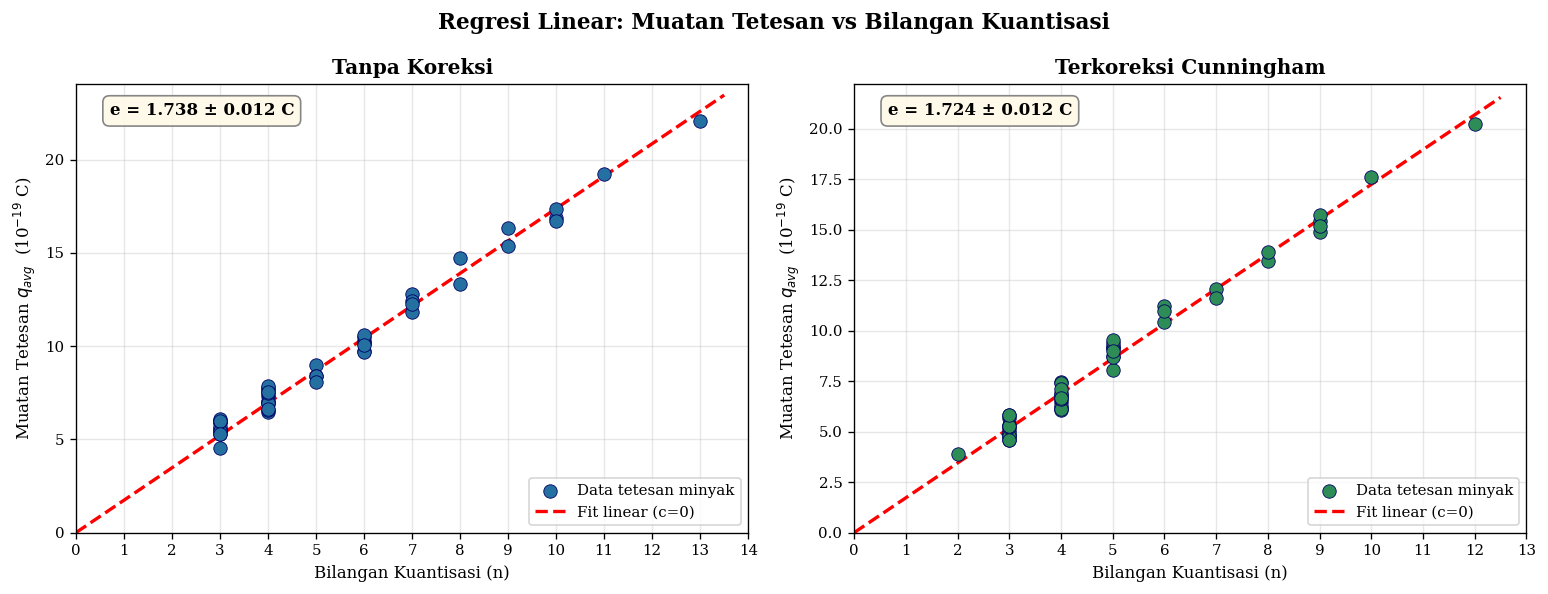
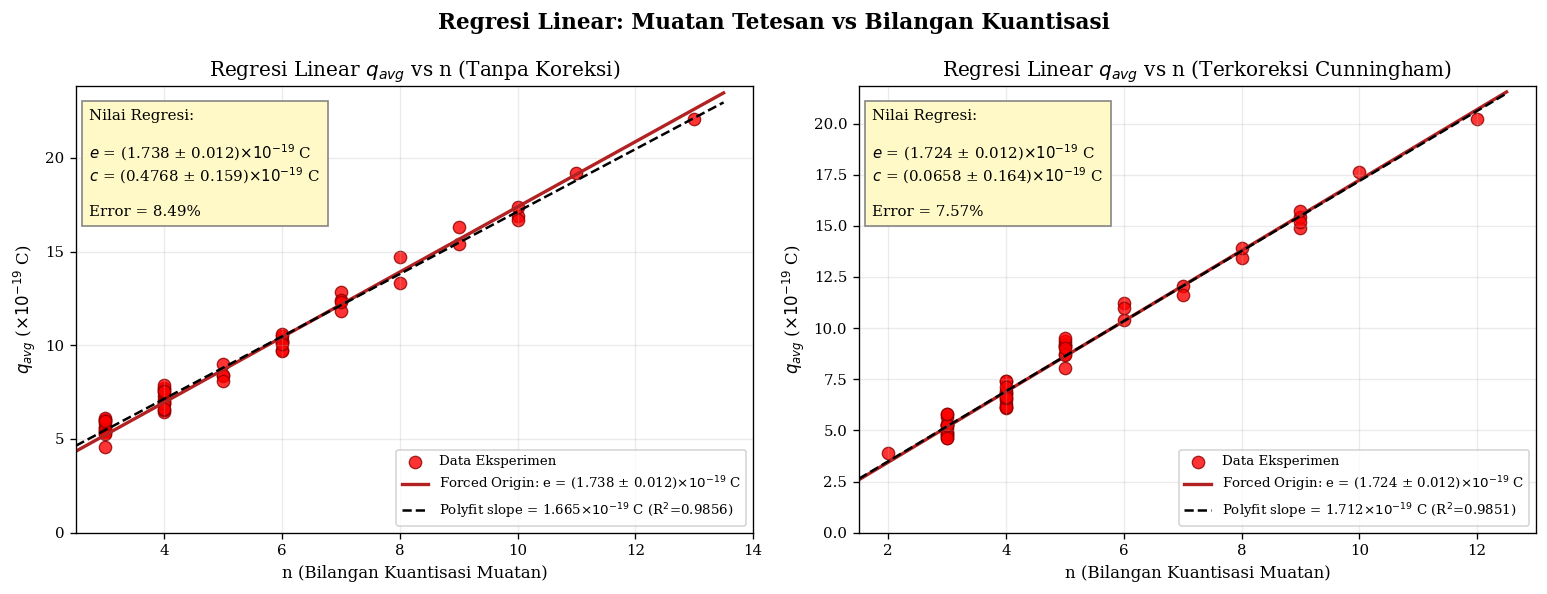
up

diff --git a/index.html b/index.html
@@ -60,7 +60,7 @@
                     
                     <div class="bab-box">
                         <h3>BAB III METODOLOGI</h3>
-                        <p>Alat dan Bahan, Skema Alat, serta Diagram Alir</p>
+                        <p>Skema Alat dan Diagram Alir</p>
                     </div>
                     
                     <div class="bab-box">
@@ -117,33 +117,16 @@
             </div>
         </div>
 
-        <div class="slide animate-slide" id="slide3b" style="--graha-opacity: 0.16">
-            <div class="header">
-                <img src="Logo Header.png" alt="Logo ITS" class="logo-header">
-            </div>
-            <div class="content">
-                <h2>Rumusan Masalah</h2>
-                <ol>
-                    <li>Bagaimana konsep kuantisasi muatan elektron pada tetesan minyak Milikan?</li>
-                    <li>Bagaimana rekonstruksi eksperimen tetesan minyak Milikan dilakukan?</li>
-                    <li>Bagaimana cara menghitung muatan elementer pada tetesan minyak Milikan melalui koreksi Cunningham?</li>
-                </ol>
-            </div>
-            <div class="footer">
-                <img src="Footer.png" alt="Footer Media Sosial">
-            </div>
-        </div>
-
         <div class="slide animate-zoom" id="slide3c" style="--graha-opacity: 0.12">
             <div class="header">
                 <img src="Logo Header.png" alt="Logo ITS" class="logo-header">
             </div>
             <div class="content">
                 <h2>Tujuan Percobaan</h2>
-                <ol>
+                <ol style="font-size: 1.9em;text-align: justify;">
                     <li>Memahami kuantisasi muatan elektron pada tetes minyak milikan</li>
                     <li>Merekonstruksi ulang Eksperimen Tetesan Minyak Milikan</li>
-                    <li>Mencari muatan elementer pada tetes minyak Milikan melalui koreksi Cunningham</li>
+                    <li>Mencari muatan elementer pada tetes minyak Milikan melalui koreksi Cunningham.</li>
                 </ol>
             </div>
             <div class="footer">
@@ -157,12 +140,15 @@
             </div>
             <div class="content">
                 <h2>Batasan Masalah</h2>
-                <ul>
-                    <li>Kondisi suhu laboratorium dianggap berada pada suhu konstan 25°C.</li>
+                <ul style="font-size: 1.6em;text-align: justify;">
                     <li>Pengambilan data dilakukan pada 50 tetesan minyak</li>
                     <li>Bentuk tetesan minyak dianggap mendekati bentuk bola sempurna</li>
                     <li>Muatan listrik pada tetesan minyak dianggap konstan selama percobaan</li>
-                    <li>Dalam percobaan, hanya menggunakan tiga metode yaitu <i>falling</i>, <i>raising</i>, dan <i>floating</i></li>
+                    <li>Percobaan dibatasi pada penentuan nilai muatan elementer elektron \((e)\)</li>
+                    <li>Percobaan hanya digunakan untuk membuktikan bahwa muatan listrik bersifat 
+                        terkuantisasi dalam kelipatan bilangan bulat dari muatan elementer elektron</li>
+                    <li>Nilai muatan elementer hasil percobaan dievaluasi berdasarkan perbandingan 
+                        dengan nilai literatur sebesar 1,602 × 10<sup>-19</sup> C.</li>
                 </ul>
             </div>
             <div class="footer">
@@ -189,19 +175,21 @@
             </div>
             <div class="content">
                 <h2>Dasar Teori</h2>
-                <div class="grid-daftar-pustaka" style="grid-template-rows: auto !important; align-items: start !important;">
-                    <div class="bab-box">
+                <div class="grid-daftar-pustaka" style="grid-template-rows: auto !important; align-items: flex-start !important;display: flex;">
+                    <div class="bab-box" style="flex-shrink:1;">
                         <h3>Hukum I Newton & Kecepatan Terminal</h3>
                         <div style="text-align: center;">
-                        <p style="text-align: center;">
-                            \( \sum \vec{F} = 0\)
-⃗                        </p>
+                            <img src="image/dasar teori/hukum1.png" alt="Hukum 1 Newton" style="text-align: center ;max-width: 100%; height: auto; border: 2px solid rgba(0,0,0,0.06);">
+                            <p><a href="https://www.knowledgeglow.com/wp-content/uploads/2023/11/Newtons-Laws-of-Motion.png" target="_blank" style="font-size: 12px;">Sumber: www.knowledgeglow.com</a></p>
+                            <p style="text-align: center;">
+                                \( \sum \vec{F} = 0 \)
+                            </p>
                         </div>
                     </div>
-                    <div class="bab-box">
+                    <div class="bab-box" style="flex-grow:1;">
                         <h3>Gaya Apung Archimedes</h3>
                         <div style="text-align: center;">
-                        <img src="image/dasar teori/archimedes.png" alt="Gaya Apung Archimedes" style="max-width: 100%; height: auto; border: 2px solid rgba(0,0,0,0.06);">
+                        <img src="image/dasar teori/archimedes.png" alt="Gaya Apung Archimedes" style="width: 100%; height: auto; border: 2px solid rgba(0,0,0,0.06);">
                         <a href="https://share.google/i2HzBJra6W1WbsAIS" target="_blank" style="font-size: 12px;">Sumber: share.google.com</a>
                         </div>
                     </div>
@@ -234,21 +222,21 @@
             </div>
             <div class="content">
                 
-                <div class="grid-daftar-pustaka" style="grid-template-rows: auto !important; align-items: start !important;">
-                    <div class="bab-box" >
+                <div class="grid-daftar-pustaka" style="grid-template-rows: auto !important; align-items: flex-start !important;">
+                    <div class="bab-box" style="flex-grow:1;">
                         <h3>Gaya Gravitasi</h3>
                         <div style="text-align: center;">
                         <p style="text-align: center;">
-                            <img src="image/dasar teori/gravitasi.jpeg" alt="Gaya Gravitasi" style="max-width: 60%;height: auto; border: 2px solid rgba(0,0,0,0.06);">
+                            <img src="image/dasar teori/gravitasi.jpeg" alt="Gaya Gravitasi" style="max-width: 100%;height: auto; border: 2px solid rgba(0,0,0,0.06);">
                         </p>
                         <a href="https://www.kompas.com/skola/image/2023/04/04/113000569/rumus-dan-cara-mengerjakan-soal-gaya-gravitasi-newton#" target="_blank" style="font-size: 12px;">Sumber: Kompas.com</a>
                         </div>
                     </div>
-                    <div class="bab-box">
+                    <div class="bab-box" style="flex-shrink:1;">
                         <h3>Gaya Hambat Stokes</h3>
                         <div style="text-align: center;">
                         <p style="text-align: center;">
-                            <img src="image/dasar teori/stokes.png" alt="Gaya Hambat Stokes" style="max-width: 60%;height: auto; border: 2px solid rgba(0,0,0,0.06);">
+                            <img src="image/dasar teori/stokes.png" alt="Gaya Hambat Stokes" style="max-width: 80%;height: auto; border: 2px solid rgba(0,0,0,0.06);">
                         </p>
                         <a href="" target="" style="font-size: 12px;">Sumber: Guidebook Milikan</a>
                         </div>
@@ -301,7 +289,8 @@
             </div>
             <div class="content">
                 <h2>Skema Alat</h2>
-                <p style="text-align:center;"><img src="image/skema alat.jpeg" alt="Skema Alat" style="max-width:50%;height:auto;border:2px solid rgba(0,0,0,0.06);"></p>
+                <p style="text-align:center;margin: 0px;"><img src="image/skema alat.jpeg" alt="Skema Alat" style="width:60%; height:auto; display:block; margin:0 auto;text-align: center;border:2px solid rgba(0,0,0,0.06);"></p>
+                <p style="text-align:center;font-size:15px;font-family:'Times New Roman', Times, serif;color:#003366;margin:0px;">Skema alat Eksperimen Tetes Minyak Milikan</p>
             </div>
             <div class="footer"><img src="Footer.png" alt="Footer Media Sosial"></div>
         </div>
@@ -310,9 +299,8 @@
             <div class="header"><img src="Logo Header.png" alt="Logo ITS" class="logo-header"></div>
                 <div class="content" style="padding: 0 10px;">
                     <h2>Diagram Alir</h2>
-                    <p style="text-align: center; margin: 0;">
-                        <img src="image/Dalir.png" alt="Diagram Alir" style="width:70%; max-width:100%; height:auto; display:block; margin:0 auto;">
-                    </p>
+                    <p style="text-align:center;margin: 0px;"><img src="image/Dalir.png" alt="Diagram Alir" style="width:70%; height:auto; display:block; margin:0 auto;text-align: center;"></p>
+                    <p style="text-align:center;font-size:15px;font-family:'Times New Roman', Times, serif;color:#003366;margin:0px;">Diagram alir Eksperimen Tetes Minyak Milikan</p>
                 </div>
             <div class="footer"><img src="Footer.png" alt="Footer Media Sosial"></div>
         </div>
@@ -675,7 +663,7 @@
             </div>
             <div class="content">
                 <p style="text-align:center;margin: 0px;"><img src="image/histogram.png" alt="Histogram Data Perhitungan" style="max-width:90%;height:auto;border:2px solid rgba(0,0,0,0.06);"></p>
-                <p style="font-size:15px;font-family:'Times New Roman', Times, serif;color:#003366;margin:0px;">Histogram distribusi selisih muatan pada data tanpa koreksi, dan data dengan koreksi Cunningham.</p>
+                <p style="text-align:center;font-size:15px;font-family:'Times New Roman', Times, serif;color:#003366;margin:0px;">Histogram distribusi selisih muatan pada data tanpa koreksi, dan data dengan koreksi Cunningham.</p>
             </div>
             <div class="footer"><img src="Footer.png" alt="Footer Media Sosial"></div>
         </div>
@@ -888,7 +876,7 @@
             <div class="content">
                 <h2>Grafik</h2>
                 <p style="text-align: center;margin:0px;"><img src="image/regresi-linear.png" alt="Grafik" style="max-width:80%;height:auto;border:2px solid rgba(0,0,0,0.06);"></p>
-                <p style="font-size:15px;font-family:'Times New Roman', Times, serif;color:#003366;margin:0px;">Grafik regresi linear antara muatan tetesan (q<sub>avg</sub>) terhadap bilangan bulat kuantisasi (n) pada data tanpa koreksi, dan data dengan koreksi Cunningham.</p>
+                <p style="text-align:center;font-size:15px;font-family:'Times New Roman', Times, serif;color:#003366;margin:0px;">Grafik regresi linear antara muatan tetesan (q<sub>avg</sub>) terhadap bilangan bulat kuantisasi (n) pada data tanpa koreksi, dan data dengan koreksi Cunningham.</p>
             </div>
             <div class="footer"><img src="Footer.png" alt="Footer Media Sosial"></div>
         </div>
@@ -953,7 +941,7 @@
             </div>
             <div class="content" style="text-align: justify;">
                 <h2>Kesimpulan</h2>
-                <ul>
+                <ul style="font-size: 1.4em;text-align: justify;">
                     <li>Konsep kuantisasi muatan listrik berhasil dipahami secara empiris, dibuktikan dengan data muatan tetesan yang selalu membentuk klaster pada nilai kelipatan bilangan bulat dari satu unit muatan terkecil.</li>
                     <li>Rekonstruksi eksperimen tetes minyak Millikan berhasil dilakukan menggunakan tiga metode — falling, rising, dan floating — pada 50 tetesan minyak berbeda</li>
                     <li>Nilai muatan elementer berhasil ditentukan, di mana pendekatan fitting kurva Gaussian
@@ -974,7 +962,7 @@
             <div class="header"><img src="Logo Header.png" alt="Logo ITS" class="logo-header"></div>
             <div class="content">
                 <h2>Daftar Pustaka</h2>
-                <ol>
+                <ol style="font-size: 1.4em;text-align: justify;">
                     <li>A. C. Melissinos and J. Napolitano, Experiments in Modern Physics,
                         2nd ed. San Diego: Academic Press, 2003.</li>
                     <li>P. A. Tipler and R. A. Llewellyn, Modern Physics, 6th ed. New York: